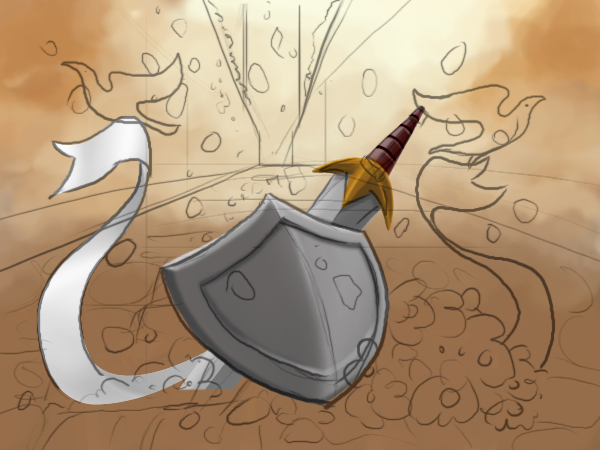
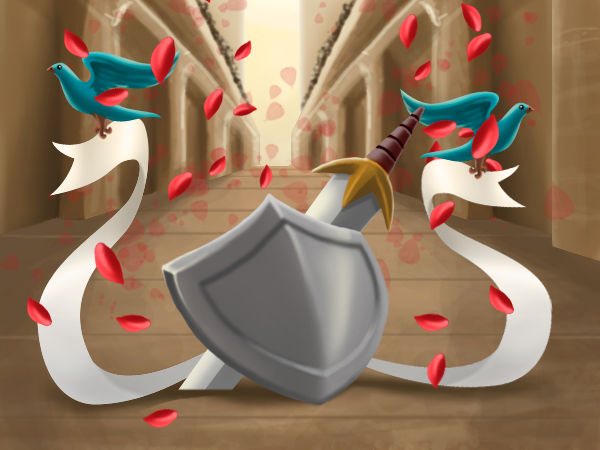
added parley refused image improved win game image

diff --git a/src/gui/surrender-refused-dialog.cpp b/src/gui/surrender-refused-dialog.cpp
@@ -46,8 +46,8 @@ SurrenderRefusedDialog::SurrenderRefusedDialog()
     xml->get_widget("image", image);
     
     label->set_text(_("Off with their heads!  I want it ALL!"));
-    //image->property_file()
-      //= File::getMiscFile("various/parley_refused.png");
+    image->property_file()
+      = File::getMiscFile("various/parley_refused.png");
 }
 
 
